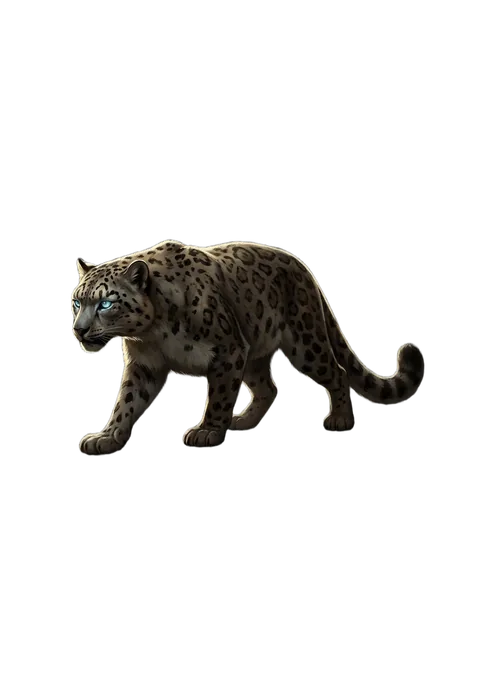
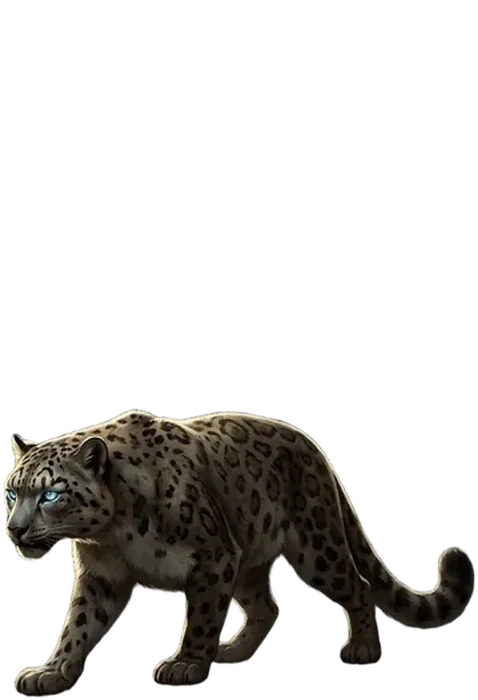
Фигуры стоят на земле, охотник смотрит на зверей
Три правки:

1. Охотник перерисован — раньше он смотрел вбок, теперь в сторону зверей,
   как берсерк и шаман.

2. Единый холст 478x700 у всех фигур (как у берсерка), содержимое прижато
   к низу. Раньше у охотника снизу было 43 px пустоты, у шамана 20 — ноги
   висели в воздухе; у кабана и барса пустота доходила до 25-34%, и они
   ещё и вылезали за верх сцены.

3. Звери стали чуть меньше (ширина 21% → 19%): фигура в полный рост выше
   старой круглой иконки, и подписи верхнего ряда вылезали за сцену на
   6 px. Теперь +4 px — помещаются. Проверено замерами на 6 охотах.

diff --git a/public/index.html b/public/index.html
@@ -50,7 +50,8 @@ html{scroll-padding-top:env(safe-area-inset-top,0px)}html,body{min-height:100%;o
 .chsb{position:fixed;inset:0;z-index:28;background:rgba(0,0,0,.45)}
 .chs{position:fixed;left:50%;transform:translateX(-50%);bottom:calc(40px + env(safe-area-inset-bottom,0px));width:min(640px,100%);height:min(68vh,560px);box-sizing:border-box;z-index:29;display:flex;flex-direction:column;background:var(--panel);border:1px solid var(--line);border-bottom:0;border-radius:14px 14px 0 0;box-shadow:0 -8px 24px rgba(0,0,0,.35);animation:chsIn .18s ease-out}
 @keyframes chsIn{from{transform:translate(-50%,24px);opacity:0}to{transform:translate(-50%,0);opacity:1}}
-.chs-h{display:flex;gap:6px;align-items:center;padding:8px 8px 6px;border-bottom:1px solid var(--line)}.lgpill{position:fixed;top:calc(8px + env(safe-area-inset-top));right:8px;z-index:60;display:flex;background:rgba(10,12,14,.78);border:1px solid rgba(214,181,106,.5);border-radius:20px;overflow:hidden}.lgpill button{background:none;border:0;color:#e8dcc0;font:inherit;font-size:14px;padding:6px 10px;cursor:pointer}.lgpill button+button{padding:6px 9px;opacity:.6;border-left:1px solid rgba(214,181,106,.3)}.stage{position:relative;isolation:isolate;aspect-ratio:900/745;margin:4px -6px 8px;border-radius:12px;overflow:hidden;border:1px solid rgba(214,181,106,.3);background:#0b0d10 var(--sbg) center/100% 100% no-repeat;color:#eee;user-select:none;-webkit-user-select:none}.st-hud{position:absolute;left:8px;top:8px;z-index:200;width:40%;max-width:170px;background:rgba(8,10,12,.62);border-radius:8px;padding:4px 7px;pointer-events:none}.st-hud b{display:block;font-size:13px;white-space:nowrap;overflow:hidden;text-overflow:ellipsis}.st-hud small{font-size:11px;opacity:.85}.st-hero{position:absolute;left:23.3%;top:89.9%;height:72%;transform:translate(-50%,-100%);z-index:90;pointer-events:none}.st-hero:not(.full){height:auto;transform:translate(-50%,-112%)}.st-fig{height:100%;line-height:0;transform-origin:50% 100%;animation:stIdle 2.8s ease-in-out infinite}.st-fig img{height:100%;display:block;filter:drop-shadow(0 6px 8px rgba(0,0,0,.7))}.st-hero::after{content:'';position:absolute;left:50%;bottom:-3%;width:70%;height:7%;transform:translateX(-50%);border-radius:50%;background:radial-gradient(ellipse,rgba(0,0,0,.6),transparent 70%);z-index:-1}.st-fig .avi{border-radius:14px!important;box-shadow:0 0 0 2px rgba(214,181,106,.7),0 0 14px rgba(0,0,0,.8)!important}.st-pet{position:absolute;right:-18%;bottom:0;filter:drop-shadow(0 3px 5px #000)}@keyframes stIdle{0%,100%{transform:scaleY(1)}50%{transform:scaleY(1.015)}}.st-bar{display:block;height:6px;border-radius:3px;background:rgba(0,0,0,.55);border:1px solid rgba(255,255,255,.14);overflow:hidden;margin:2px 0 1px}.st-bar i{display:block;height:100%;background:var(--blood);transition:width .25s}.st-foe{position:absolute;width:calc(21% * var(--k,1));transform:translate(-50%,-88%);border:0;padding:0;margin:0;background:none;color:#eee;font:inherit;cursor:pointer;-webkit-tap-highlight-color:transparent}.st-img{display:block;aspect-ratio:1;border-radius:50%;background:rgba(0,0,0,.3) 62% 35%/cover no-repeat;box-shadow:0 0 0 2px rgba(255,190,120,.55),0 6px 14px rgba(0,0,0,.7)}.st-foe.fig .st-img{border-radius:0;aspect-ratio:auto;background:none;box-shadow:none;line-height:0}
+.chs-h{display:flex;gap:6px;align-items:center;padding:8px 8px 6px;border-bottom:1px solid var(--line)}.lgpill{position:fixed;top:calc(8px + env(safe-area-inset-top));right:8px;z-index:60;display:flex;background:rgba(10,12,14,.78);border:1px solid rgba(214,181,106,.5);border-radius:20px;overflow:hidden}.lgpill button{background:none;border:0;color:#e8dcc0;font:inherit;font-size:14px;padding:6px 10px;cursor:pointer}.lgpill button+button{padding:6px 9px;opacity:.6;border-left:1px solid rgba(214,181,106,.3)}.stage{position:relative;isolation:isolate;aspect-ratio:900/745;margin:4px -6px 8px;border-radius:12px;overflow:hidden;border:1px solid rgba(214,181,106,.3);background:#0b0d10 var(--sbg) center/100% 100% no-repeat;color:#eee;user-select:none;-webkit-user-select:none}.st-hud{position:absolute;left:8px;top:8px;z-index:200;width:40%;max-width:170px;background:rgba(8,10,12,.62);border-radius:8px;padding:4px 7px;pointer-events:none}.st-hud b{display:block;font-size:13px;white-space:nowrap;overflow:hidden;text-overflow:ellipsis}.st-hud small{font-size:11px;opacity:.85}.st-hero{position:absolute;left:23.3%;top:89.9%;height:72%;transform:translate(-50%,-100%);z-index:90;pointer-events:none}.st-hero:not(.full){height:auto;transform:translate(-50%,-112%)}.st-fig{height:100%;line-height:0;transform-origin:50% 100%;animation:stIdle 2.8s ease-in-out infinite}.st-fig img{height:100%;display:block;filter:drop-shadow(0 6px 8px rgba(0,0,0,.7))}.st-hero::after{content:'';position:absolute;left:50%;bottom:-3%;width:70%;height:7%;transform:translateX(-50%);border-radius:50%;background:radial-gradient(ellipse,rgba(0,0,0,.6),transparent 70%);z-index:-1}.st-fig .avi{border-radius:14px!important;box-shadow:0 0 0 2px rgba(214,181,106,.7),0 0 14px rgba(0,0,0,.8)!important}.st-pet{position:absolute;right:-18%;bottom:0;filter:drop-shadow(0 3px 5px #000)}@keyframes stIdle{0%,100%{transform:scaleY(1)}50%{transform:scaleY(1.015)}}.st-bar{display:block;height:6px;border-radius:3px;background:rgba(0,0,0,.55);border:1px solid rgba(255,255,255,.14);overflow:hidden;margin:2px 0 1px}.st-bar i{display:block;height:100%;background:var(--blood);transition:width .25s}.st-foe{position:absolute;width:calc(19% * var(--k,1));transform:translate(-50%,-88%);border:0;padding:0;margin:0;background:none;color:#eee;font:inherit;cursor:pointer;-webkit-tap-highlight-color:transparent}.st-img{display:block;aspect-ratio:1;border-radius:50%;background:rgba(0,0,0,.3) 62% 35%/cover no-repeat;box-shadow:0 0 0 2px rgba(255,190,120,.55),0 6px 14px rgba(0,0,0,.7)}.st-foe.fig{transform:translate(-50%,-100%)} /* фигура стоит ногами на круге */
+.st-foe.fig .st-img{border-radius:0;aspect-ratio:auto;background:none;box-shadow:none;line-height:0}
 .st-foe.fig.on .st-img{box-shadow:none}.st-foe.fig .st-img img{width:100%;display:block;filter:drop-shadow(0 4px 6px rgba(0,0,0,.6))}.st-foe.on .st-img{box-shadow:0 0 0 3px var(--gold),0 0 16px rgba(214,181,106,.85),0 6px 14px rgba(0,0,0,.7)}.st-foe.fig.on .st-img img{filter:drop-shadow(0 0 4px var(--gold)) drop-shadow(0 0 10px rgba(214,181,106,.8))}.st-hd{position:absolute;left:50%;bottom:100%;width:130%;transform:translateX(-50%);margin-bottom:2px;text-align:center;pointer-events:none}.st-nm{display:block;font-size:11px;font-weight:700;line-height:1.1;text-shadow:0 1px 3px #000,0 0 6px #000;white-space:nowrap;overflow:hidden;text-overflow:ellipsis}.st-atk{display:block;height:2px;background:rgba(255,255,255,.08);border-radius:1px}.st-atk i{display:block;height:100%;background:rgba(255,150,70,.85)}.st-foe.empty{width:24%;transform:translate(-50%,-80%);text-align:center;font-size:11px;color:rgba(255,255,255,.6);cursor:default;text-shadow:0 1px 3px #000}.st-stun{position:absolute;top:0;right:4%}#fxl{position:fixed;inset:0;pointer-events:none;z-index:40;overflow:hidden}.fxn{position:absolute;font-weight:800;font-size:22px;color:#fff;text-shadow:0 2px 0 #000,0 0 6px rgba(0,0,0,.85);transform:translate(-50%,-50%);animation:fxn .9s ease-out forwards;white-space:nowrap}.fxn.c{color:#ffcf4a;font-size:30px}.fxn.h{color:#ff6b5a}.fxn.g{color:#86e086}@keyframes fxn{0%{opacity:0;transform:translate(-50%,-30%) scale(.6)}15%{opacity:1;transform:translate(-50%,-70%) scale(1.15)}100%{opacity:0;transform:translate(-50%,-190%) scale(1)}}.fxs{position:absolute;width:120px;height:4px;border-radius:2px;background:linear-gradient(90deg,transparent,#fff 45%,#ffe6a8 55%,transparent);box-shadow:0 0 10px #fff;opacity:0;transform:translate(-50%,-50%) rotate(-28deg);animation:fxs .3s ease-out}@keyframes fxs{0%{opacity:0;transform:translate(-50%,-50%) rotate(-28deg) scaleX(.1)}35%{opacity:1}100%{opacity:0;transform:translate(-50%,-50%) rotate(-28deg) scaleX(1.3)}}.fxk{position:absolute;width:70px;height:70px;border-radius:50%;transform:translate(-50%,-50%);background:radial-gradient(circle,rgba(255,240,200,.9),rgba(255,160,60,.4) 40%,transparent 70%);animation:fxk .5s ease-out forwards}@keyframes fxk{0%{opacity:1;transform:translate(-50%,-50%) scale(.3)}100%{opacity:0;transform:translate(-50%,-50%) scale(2)}}.gclg{margin-left:auto;display:flex;gap:0}.gclg .lnk{padding:4px 6px;font-size:13px;opacity:.55;color:var(--ink)}.gclg .lnk.on{opacity:1;font-weight:700;color:var(--gold)}.gclg+.chs-x{margin-left:4px!important}
 .chs-h button{background:none;border:1px solid transparent;border-radius:8px;color:var(--mute);font:inherit;font-weight:700;font-size:15px;padding:6px 12px;cursor:pointer}
 .chs-h button.on{color:var(--gold);border-color:color-mix(in srgb,var(--gold) 45%,transparent);background:color-mix(in srgb,var(--gold) 10%,transparent)}
@@ -2023,7 +2024,7 @@ function snowRun(){
    cx.fillStyle=g;cx.beginPath();cx.arc(f.x,f.y,f.r*3,0,6.283);cx.fill()}};
  requestAnimationFrame(t=>{SNL=t;tick(t)})}
 if(document.readyState==='loading')document.addEventListener('DOMContentLoaded',snowRun);else setTimeout(snowRun,0);
-const GVER='1.18.2';
+const GVER='1.18.3';
 let GC=[],GCA=[],gcUn=null,lastGc=0,GCMSG='';let GCL=(()=>{try{return localStorage.getItem('nf_gcl')||LANG}catch(e){return LANG}})();
 const gcF=()=>{GC=GCA.filter(m=>(m.lg||'ru')===GCL)};
 const gcLgBar=()=>`<span class="gclg">${['ru','en'].map(l=>`<button class="lnk${GCL===l?' on':''}" data-gl="${l}">${l.toUpperCase()}</button>`).join('')}</span>`;
@@ -2429,7 +2430,7 @@ async function doNewHero(){
  create(UID)}
 function heroFields(){return`<h3>Класс</h3>${Object.keys(CL).map(k=>`<button class="cls ${pick===k?'on':''}" data-c="${k}"><b>${CL[k].n}</b><br>${CL[k].d}</button>`).join('')}<h3 style="margin-top:10px">Аватар</h3><div style="text-align:center">${avatar(av,80)}</div>${avPicker(av)}`}
 function authView(){
- const st=DBS==='ok'?'<span style="color:var(--moss)">●</span> Сервер подключён: прогресс хранится в твоём аккаунте. <span style="opacity:.6">Версия 1.18.2</span>':DBS==='wait'?'Подключаюсь к базе данных…':'<span style="color:var(--blood)">●</span> База данных недоступна: войти в аккаунт нельзя.';
+ const st=DBS==='ok'?'<span style="color:var(--moss)">●</span> Сервер подключён: прогресс хранится в твоём аккаунте. <span style="opacity:.6">Версия 1.18.3</span>':DBS==='wait'?'Подключаюсь к базе данных…':'<span style="color:var(--blood)">●</span> База данных недоступна: войти в аккаунт нельзя.';
  const err=(INAPP&&(scr==='reg'||scr==='login')?'<p style="margin:0 0 10px;padding:8px 10px;border-radius:8px;background:rgba(199,154,60,.15);font-size:14px">Ты открыл игру внутри приложения соцсети. Чтобы вход и прогресс точно сохранились, нажми <b>⋯</b> вверху справа → <b>«Открыть во внешнем браузере»</b>.</p>':'')+(AM?`<p style="color:var(--blood);margin:6px 0 10px">${esc(AM)}</p>`:'');
  const tabs=scr==='newhero'||scr==='gnew'?'':scr==='forgot'?`<button class="lnk" data-sc="login" style="padding:0 0 10px">‹ Назад ко входу</button>`:scr==='login'?`<button class="lnk" data-sc="gnew" style="padding:0 0 10px">‹ Назад</button>`:scr==='reg'?(LEG&&LEG.guest?`<button class="lnk" data-a="guestgo" style="padding:0 0 10px">‹ Вернуться в игру</button>`:`<button class="lnk" data-sc="gnew" style="padding:0 0 10px">‹ Назад</button>`):`<div style="display:flex;gap:6px;margin-bottom:12px"><button class="b ${scr==='login'?'':'alt'}" data-sc="login" style="flex:1">Вход</button><button class="b ${scr==='reg'?'':'alt'}" data-sc="reg" style="flex:1">Регистрация</button></div>`;
  const inp=(id,ph,type,ac)=>`<input id="${id}" type="${type||'text'}" placeholder="${ph}" aria-label="${ph}" autocomplete="${ac}" autocapitalize="none" spellcheck="false" maxlength="${type==='password'?64:16}">`;

diff --git a/public/en/index.html b/public/en/index.html
@@ -51,7 +51,8 @@ html{scroll-padding-top:env(safe-area-inset-top,0px)}html,body{min-height:100%;o
 .chsb{position:fixed;inset:0;z-index:28;background:rgba(0,0,0,.45)}
 .chs{position:fixed;left:50%;transform:translateX(-50%);bottom:calc(40px + env(safe-area-inset-bottom,0px));width:min(640px,100%);height:min(68vh,560px);box-sizing:border-box;z-index:29;display:flex;flex-direction:column;background:var(--panel);border:1px solid var(--line);border-bottom:0;border-radius:14px 14px 0 0;box-shadow:0 -8px 24px rgba(0,0,0,.35);animation:chsIn .18s ease-out}
 @keyframes chsIn{from{transform:translate(-50%,24px);opacity:0}to{transform:translate(-50%,0);opacity:1}}
-.chs-h{display:flex;gap:6px;align-items:center;padding:8px 8px 6px;border-bottom:1px solid var(--line)}.lgpill{position:fixed;top:calc(8px + env(safe-area-inset-top));right:8px;z-index:60;display:flex;background:rgba(10,12,14,.78);border:1px solid rgba(214,181,106,.5);border-radius:20px;overflow:hidden}.lgpill button{background:none;border:0;color:#e8dcc0;font:inherit;font-size:14px;padding:6px 10px;cursor:pointer}.lgpill button+button{padding:6px 9px;opacity:.6;border-left:1px solid rgba(214,181,106,.3)}.stage{position:relative;isolation:isolate;aspect-ratio:900/745;margin:4px -6px 8px;border-radius:12px;overflow:hidden;border:1px solid rgba(214,181,106,.3);background:#0b0d10 var(--sbg) center/100% 100% no-repeat;color:#eee;user-select:none;-webkit-user-select:none}.st-hud{position:absolute;left:8px;top:8px;z-index:200;width:40%;max-width:170px;background:rgba(8,10,12,.62);border-radius:8px;padding:4px 7px;pointer-events:none}.st-hud b{display:block;font-size:13px;white-space:nowrap;overflow:hidden;text-overflow:ellipsis}.st-hud small{font-size:11px;opacity:.85}.st-hero{position:absolute;left:23.3%;top:89.9%;height:72%;transform:translate(-50%,-100%);z-index:90;pointer-events:none}.st-hero:not(.full){height:auto;transform:translate(-50%,-112%)}.st-fig{height:100%;line-height:0;transform-origin:50% 100%;animation:stIdle 2.8s ease-in-out infinite}.st-fig img{height:100%;display:block;filter:drop-shadow(0 6px 8px rgba(0,0,0,.7))}.st-hero::after{content:'';position:absolute;left:50%;bottom:-3%;width:70%;height:7%;transform:translateX(-50%);border-radius:50%;background:radial-gradient(ellipse,rgba(0,0,0,.6),transparent 70%);z-index:-1}.st-fig .avi{border-radius:14px!important;box-shadow:0 0 0 2px rgba(214,181,106,.7),0 0 14px rgba(0,0,0,.8)!important}.st-pet{position:absolute;right:-18%;bottom:0;filter:drop-shadow(0 3px 5px #000)}@keyframes stIdle{0%,100%{transform:scaleY(1)}50%{transform:scaleY(1.015)}}.st-bar{display:block;height:6px;border-radius:3px;background:rgba(0,0,0,.55);border:1px solid rgba(255,255,255,.14);overflow:hidden;margin:2px 0 1px}.st-bar i{display:block;height:100%;background:var(--blood);transition:width .25s}.st-foe{position:absolute;width:calc(21% * var(--k,1));transform:translate(-50%,-88%);border:0;padding:0;margin:0;background:none;color:#eee;font:inherit;cursor:pointer;-webkit-tap-highlight-color:transparent}.st-img{display:block;aspect-ratio:1;border-radius:50%;background:rgba(0,0,0,.3) 62% 35%/cover no-repeat;box-shadow:0 0 0 2px rgba(255,190,120,.55),0 6px 14px rgba(0,0,0,.7)}.st-foe.fig .st-img{border-radius:0;aspect-ratio:auto;background:none;box-shadow:none;line-height:0}
+.chs-h{display:flex;gap:6px;align-items:center;padding:8px 8px 6px;border-bottom:1px solid var(--line)}.lgpill{position:fixed;top:calc(8px + env(safe-area-inset-top));right:8px;z-index:60;display:flex;background:rgba(10,12,14,.78);border:1px solid rgba(214,181,106,.5);border-radius:20px;overflow:hidden}.lgpill button{background:none;border:0;color:#e8dcc0;font:inherit;font-size:14px;padding:6px 10px;cursor:pointer}.lgpill button+button{padding:6px 9px;opacity:.6;border-left:1px solid rgba(214,181,106,.3)}.stage{position:relative;isolation:isolate;aspect-ratio:900/745;margin:4px -6px 8px;border-radius:12px;overflow:hidden;border:1px solid rgba(214,181,106,.3);background:#0b0d10 var(--sbg) center/100% 100% no-repeat;color:#eee;user-select:none;-webkit-user-select:none}.st-hud{position:absolute;left:8px;top:8px;z-index:200;width:40%;max-width:170px;background:rgba(8,10,12,.62);border-radius:8px;padding:4px 7px;pointer-events:none}.st-hud b{display:block;font-size:13px;white-space:nowrap;overflow:hidden;text-overflow:ellipsis}.st-hud small{font-size:11px;opacity:.85}.st-hero{position:absolute;left:23.3%;top:89.9%;height:72%;transform:translate(-50%,-100%);z-index:90;pointer-events:none}.st-hero:not(.full){height:auto;transform:translate(-50%,-112%)}.st-fig{height:100%;line-height:0;transform-origin:50% 100%;animation:stIdle 2.8s ease-in-out infinite}.st-fig img{height:100%;display:block;filter:drop-shadow(0 6px 8px rgba(0,0,0,.7))}.st-hero::after{content:'';position:absolute;left:50%;bottom:-3%;width:70%;height:7%;transform:translateX(-50%);border-radius:50%;background:radial-gradient(ellipse,rgba(0,0,0,.6),transparent 70%);z-index:-1}.st-fig .avi{border-radius:14px!important;box-shadow:0 0 0 2px rgba(214,181,106,.7),0 0 14px rgba(0,0,0,.8)!important}.st-pet{position:absolute;right:-18%;bottom:0;filter:drop-shadow(0 3px 5px #000)}@keyframes stIdle{0%,100%{transform:scaleY(1)}50%{transform:scaleY(1.015)}}.st-bar{display:block;height:6px;border-radius:3px;background:rgba(0,0,0,.55);border:1px solid rgba(255,255,255,.14);overflow:hidden;margin:2px 0 1px}.st-bar i{display:block;height:100%;background:var(--blood);transition:width .25s}.st-foe{position:absolute;width:calc(19% * var(--k,1));transform:translate(-50%,-88%);border:0;padding:0;margin:0;background:none;color:#eee;font:inherit;cursor:pointer;-webkit-tap-highlight-color:transparent}.st-img{display:block;aspect-ratio:1;border-radius:50%;background:rgba(0,0,0,.3) 62% 35%/cover no-repeat;box-shadow:0 0 0 2px rgba(255,190,120,.55),0 6px 14px rgba(0,0,0,.7)}.st-foe.fig{transform:translate(-50%,-100%)} /* фигура стоит ногами на круге */
+.st-foe.fig .st-img{border-radius:0;aspect-ratio:auto;background:none;box-shadow:none;line-height:0}
 .st-foe.fig.on .st-img{box-shadow:none}.st-foe.fig .st-img img{width:100%;display:block;filter:drop-shadow(0 4px 6px rgba(0,0,0,.6))}.st-foe.on .st-img{box-shadow:0 0 0 3px var(--gold),0 0 16px rgba(214,181,106,.85),0 6px 14px rgba(0,0,0,.7)}.st-foe.fig.on .st-img img{filter:drop-shadow(0 0 4px var(--gold)) drop-shadow(0 0 10px rgba(214,181,106,.8))}.st-hd{position:absolute;left:50%;bottom:100%;width:130%;transform:translateX(-50%);margin-bottom:2px;text-align:center;pointer-events:none}.st-nm{display:block;font-size:11px;font-weight:700;line-height:1.1;text-shadow:0 1px 3px #000,0 0 6px #000;white-space:nowrap;overflow:hidden;text-overflow:ellipsis}.st-atk{display:block;height:2px;background:rgba(255,255,255,.08);border-radius:1px}.st-atk i{display:block;height:100%;background:rgba(255,150,70,.85)}.st-foe.empty{width:24%;transform:translate(-50%,-80%);text-align:center;font-size:11px;color:rgba(255,255,255,.6);cursor:default;text-shadow:0 1px 3px #000}.st-stun{position:absolute;top:0;right:4%}#fxl{position:fixed;inset:0;pointer-events:none;z-index:40;overflow:hidden}.fxn{position:absolute;font-weight:800;font-size:22px;color:#fff;text-shadow:0 2px 0 #000,0 0 6px rgba(0,0,0,.85);transform:translate(-50%,-50%);animation:fxn .9s ease-out forwards;white-space:nowrap}.fxn.c{color:#ffcf4a;font-size:30px}.fxn.h{color:#ff6b5a}.fxn.g{color:#86e086}@keyframes fxn{0%{opacity:0;transform:translate(-50%,-30%) scale(.6)}15%{opacity:1;transform:translate(-50%,-70%) scale(1.15)}100%{opacity:0;transform:translate(-50%,-190%) scale(1)}}.fxs{position:absolute;width:120px;height:4px;border-radius:2px;background:linear-gradient(90deg,transparent,#fff 45%,#ffe6a8 55%,transparent);box-shadow:0 0 10px #fff;opacity:0;transform:translate(-50%,-50%) rotate(-28deg);animation:fxs .3s ease-out}@keyframes fxs{0%{opacity:0;transform:translate(-50%,-50%) rotate(-28deg) scaleX(.1)}35%{opacity:1}100%{opacity:0;transform:translate(-50%,-50%) rotate(-28deg) scaleX(1.3)}}.fxk{position:absolute;width:70px;height:70px;border-radius:50%;transform:translate(-50%,-50%);background:radial-gradient(circle,rgba(255,240,200,.9),rgba(255,160,60,.4) 40%,transparent 70%);animation:fxk .5s ease-out forwards}@keyframes fxk{0%{opacity:1;transform:translate(-50%,-50%) scale(.3)}100%{opacity:0;transform:translate(-50%,-50%) scale(2)}}.gclg{margin-left:auto;display:flex;gap:0}.gclg .lnk{padding:4px 6px;font-size:13px;opacity:.55;color:var(--ink)}.gclg .lnk.on{opacity:1;font-weight:700;color:var(--gold)}.gclg+.chs-x{margin-left:4px!important}
 .chs-h button{background:none;border:1px solid transparent;border-radius:8px;color:var(--mute);font:inherit;font-weight:700;font-size:15px;padding:6px 12px;cursor:pointer}
 .chs-h button.on{color:var(--gold);border-color:color-mix(in srgb,var(--gold) 45%,transparent);background:color-mix(in srgb,var(--gold) 10%,transparent)}
@@ -2025,7 +2026,7 @@ function snowRun(){
    cx.fillStyle=g;cx.beginPath();cx.arc(f.x,f.y,f.r*3,0,6.283);cx.fill()}};
  requestAnimationFrame(t=>{SNL=t;tick(t)})}
 if(document.readyState==='loading')document.addEventListener('DOMContentLoaded',snowRun);else setTimeout(snowRun,0);
-const GVER='1.18.2';
+const GVER='1.18.3';
 let GC=[],GCA=[],gcUn=null,lastGc=0,GCMSG='';let GCL=(()=>{try{return localStorage.getItem('nf_gcl')||LANG}catch(e){return LANG}})();
 const gcF=()=>{GC=GCA.filter(m=>(m.lg||'ru')===GCL)};
 const gcLgBar=()=>`<span class="gclg">${['ru','en'].map(l=>`<button class="lnk${GCL===l?' on':''}" data-gl="${l}">${l.toUpperCase()}</button>`).join('')}</span>`;
@@ -2431,7 +2432,7 @@ async function doNewHero(){
  create(UID)}
 function heroFields(){return`<h3>Class</h3>${Object.keys(CL).map(k=>`<button class="cls ${pick===k?'on':''}" data-c="${k}"><b>${CL[k].n}</b><br>${CL[k].d}</button>`).join('')}<h3 style="margin-top:10px">Avatar</h3><div style="text-align:center">${avatar(av,80)}</div>${avPicker(av)}`}
 function authView(){
- const st=DBS==='ok'?'<span style="color:var(--moss)">●</span> Server connected: progress is stored in your account. <span style="opacity:.6">Version 1.18.2</span>':DBS==='wait'?'Connecting to the database…':'<span style="color:var(--blood)">●</span> The database is unavailable: you can\'t log in to an account.';
+ const st=DBS==='ok'?'<span style="color:var(--moss)">●</span> Server connected: progress is stored in your account. <span style="opacity:.6">Version 1.18.3</span>':DBS==='wait'?'Connecting to the database…':'<span style="color:var(--blood)">●</span> The database is unavailable: you can\'t log in to an account.';
  const err=(INAPP&&(scr==='reg'||scr==='login')?'<p style="margin:0 0 10px;padding:8px 10px;border-radius:8px;background:rgba(199,154,60,.15);font-size:14px">You opened the game inside a social media app. To make sure your login and progress are saved, tap <b>⋯</b> at the top right → <b>“Open in external browser”</b>.</p>':'')+(AM?`<p style="color:var(--blood);margin:6px 0 10px">${esc(AM)}</p>`:'');
  const tabs=scr==='newhero'||scr==='gnew'?'':scr==='forgot'?`<button class="lnk" data-sc="login" style="padding:0 0 10px">‹ Back to login</button>`:scr==='login'?`<button class="lnk" data-sc="gnew" style="padding:0 0 10px">‹ Back</button>`:scr==='reg'?(LEG&&LEG.guest?`<button class="lnk" data-a="guestgo" style="padding:0 0 10px">‹ Back to the game</button>`:`<button class="lnk" data-sc="gnew" style="padding:0 0 10px">‹ Back</button>`):`<div style="display:flex;gap:6px;margin-bottom:12px"><button class="b ${scr==='login'?'':'alt'}" data-sc="login" style="flex:1">Log in</button><button class="b ${scr==='reg'?'':'alt'}" data-sc="reg" style="flex:1">Sign up</button></div>`;
  const inp=(id,ph,type,ac)=>`<input id="${id}" type="${type||'text'}" placeholder="${ph}" aria-label="${ph}" autocomplete="${ac}" autocapitalize="none" spellcheck="false" maxlength="${type==='password'?64:16}">`;
